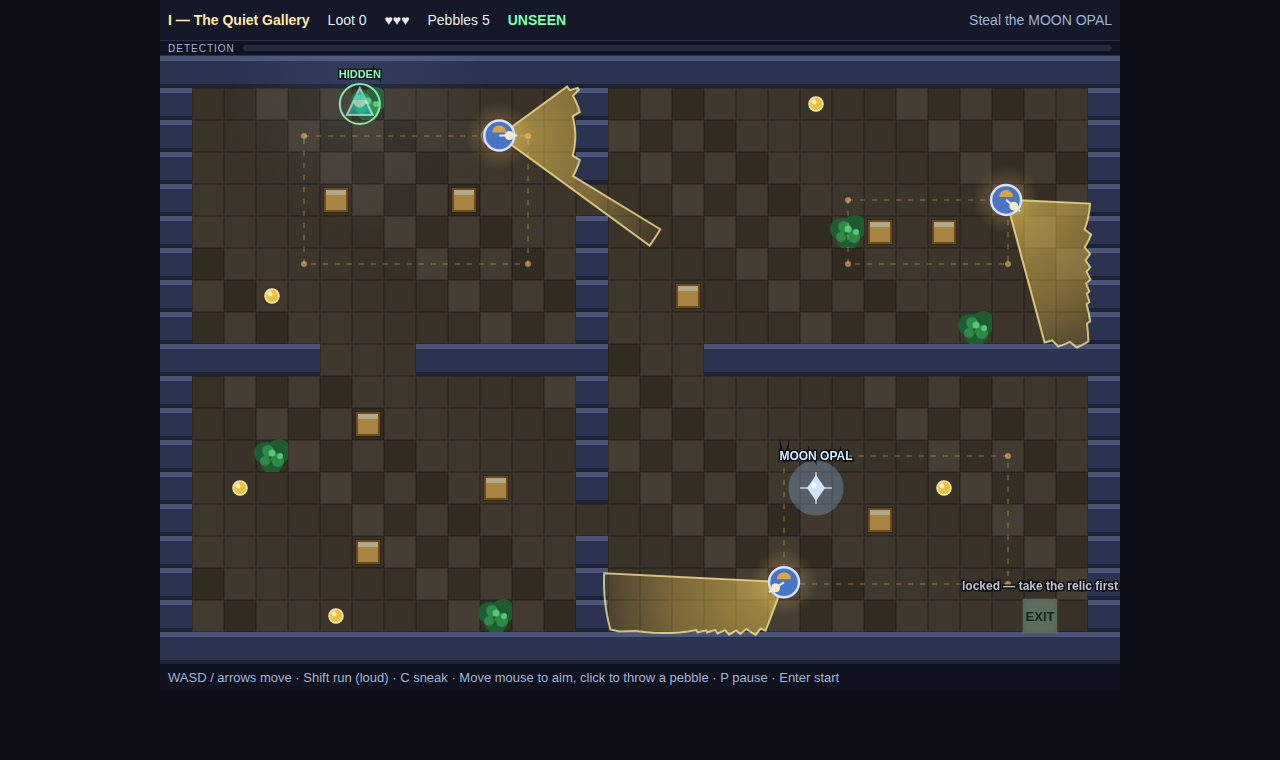
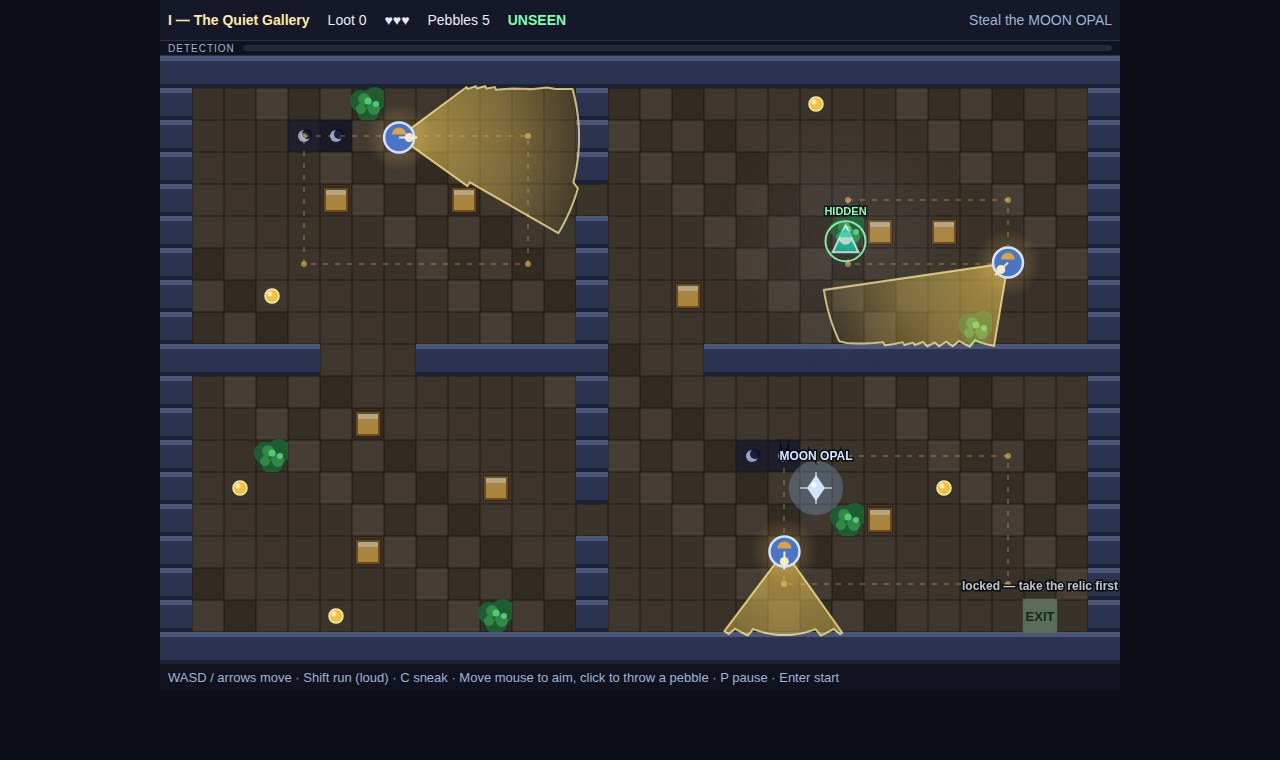
Stage 8 (v3 revision): autopilot sneaks only when it matters, cover freezes only with the relic label clear, fresh screenshots

diff --git a/game/src/shots.js b/game/src/shots.js
@@ -104,8 +104,11 @@ function autopilot(world) {
   }
   if (Math.abs(dx) > 4) input[dx > 0 ? 'right' : 'left'] = true;
   if (Math.abs(dy) > 4) input[dy > 0 ? 'down' : 'up'] = true;
-  // Sneak whenever a guard is close, not only when the next tile is risky.
-  input.sneak = world.guards.some((g) => Math.hypot(g.x - world.player.x, g.y - world.player.y) < 230);
+  // Sneak only when it matters — the next step is risky, or a cone is on
+  // the thief right now. Walking at full speed everywhere else keeps the
+  // run moving; sneaking near every guard halved the pace for nothing.
+  const me = { x: world.player.x, y: world.player.y, sneaking: false, running: false };
+  input.sneak = risky || world.guards.some((g) => guardSeesPlayer(g, me, world.grid) > 0);
   return input;
 }
 
@@ -180,10 +183,12 @@ function bushNearPatrol(world) {
 
 /** Wait in place until a guard's cone sweeps close to the thief, or the
  * time runs out: the cover frame catches the patrol passing the hidden
- * thief, not a quiet moment between rounds. */
+ * thief, not a quiet moment between rounds. The frame is only taken while
+ * no guard stands on the relic, so its label stays readable. */
 function waitForConeNear(world, stepWorld, maxSeconds) {
   const idle = { up: false, down: false, left: false, right: false, run: false, sneak: false, throwPebble: false, throwX: 0, throwY: 0, pressed: new Set() };
   for (let i = 0; i < maxSeconds / SAMPLE; i += 1) {
+    const relicClear = world.guards.every((g) => Math.hypot(g.x - world.relic.x, g.y - world.relic.y) > 70);
     const near = world.guards.some((guard) => {
       const d = Math.hypot(guard.x - world.player.x, guard.y - world.player.y);
       if (d > 240) return false;
@@ -192,7 +197,7 @@ function waitForConeNear(world, stepWorld, maxSeconds) {
       while (diff < -Math.PI) diff += Math.PI * 2;
       return Math.abs(diff) < 1.0;
     });
-    if (near) return;
+    if (near && relicClear) return;
     const result = stepWorld(world, idle, SAMPLE);
     if (result & (1 | 2 | 4 | 8)) return;
   }
